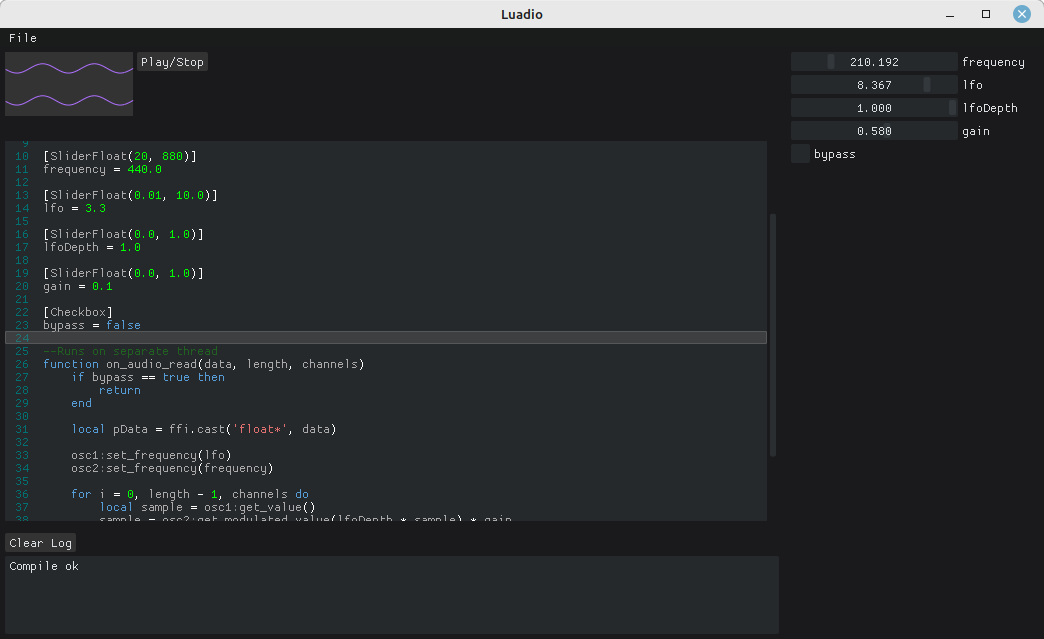
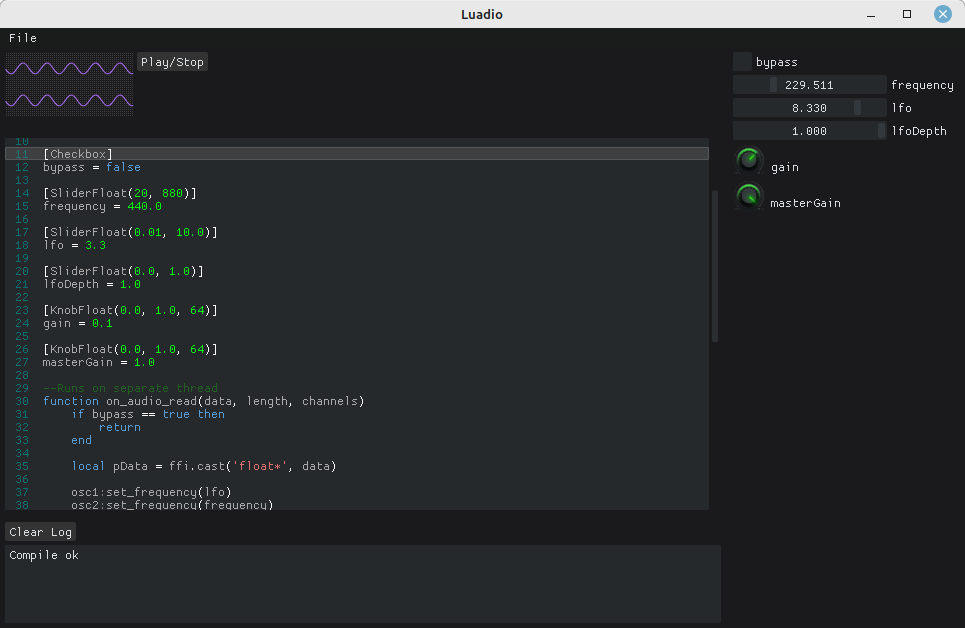
Add effect callback

diff --git a/src/core/app.cpp b/src/core/app.cpp
@@ -17,6 +17,20 @@ namespace luadio
 		pContext = ma_ex_context_init(&contextConfig);
 		pSource = ma_ex_audio_source_init(pContext);
 
+		std::memset(&soundGroup, 0, sizeof(ma_sound_group));
+		std::memset(&effectNode, 0, sizeof(ma_effect_node));
+
+		ma_sound_group_init(&pContext->engine, 0, nullptr, &soundGroup);
+		ma_ex_audio_source_set_group(pSource, &soundGroup);
+
+		ma_effect_node_config effectNodeConfig = ma_effect_node_config_init(2, 44100, on_audio_effect, this);
+
+		if (ma_effect_node_init(ma_engine_get_node_graph(&pContext->engine), &effectNodeConfig, nullptr, &effectNode) == MA_SUCCESS)
+		{
+			ma_node_attach_output_bus(&effectNode, 0, ma_engine_get_endpoint(&pContext->engine), 0);
+			ma_node_attach_output_bus(&soundGroup, 0, &effectNode, 0);
+		}
+
 		editor.SetShowHorizontalScrollbar(false);
 		auto palette = editor.GetDarkPalette();
 		palette[12] = ImColor(ImVec4(0.15f, 0.16f, 0.17f, 1.00f)); //background
@@ -36,8 +50,12 @@ namespace luadio
 			oscillatorModule.load(compiler::get_lua_state());
 			wavetableModule.load(compiler::get_lua_state());
 
-			luadio_module::onLog = [this] (const char *message) {
-				log_message(message);
+			luadio_module::onLog = [this] (const std::string &message) {
+				on_log_message(message);
+			};
+
+			luadio_module::onQueueAudio = [this] (const std::string &filePath) {
+				on_queue_audio(filePath);
 			};
 		}
 
@@ -60,10 +78,13 @@ namespace luadio
 
 		clear_fields();
 
-		ma_ex_context_uninit(pContext);
-		pContext = nullptr;
+		ma_ex_audio_source_stop(pSource);
+
 		ma_ex_audio_source_uninit(pSource);
 		pSource = nullptr;
+
+		ma_ex_context_uninit(pContext);
+		pContext = nullptr;
 	}
 	
 	void app::on_update() 
@@ -86,18 +107,19 @@ namespace luadio
 					{
 						logText += item.message + "\n";
 					}
-				}
-				else if(item.type == item_type_audio)
-				{
-					if(item.message.size() > 0)
+					else if(item.type == item_type_audio)
 					{
-						ma_ex_audio_source_play_from_file(pSource, item.message.c_str(), MA_TRUE);
-					}
-					else
-					{
-						ma_ex_audio_source_play_from_callback(pSource, on_audio_read, this);
+						if(item.message.size() > 0)
+						{
+							ma_ex_audio_source_play_from_file(pSource, item.message.c_str(), MA_TRUE);
+						}
+						else
+						{
+							ma_ex_audio_source_play_from_callback(pSource, on_audio_read, this);
+						}
 					}
 				}
+
 			}
 		}
 	}
@@ -239,14 +261,14 @@ namespace luadio
 
 				if (luaL_dostring(L, code.c_str()) == LUA_OK) 
 				{
-					log_message("Compile ok");
+					on_log_message("Compile ok");
 					on_script_start();
 					ma_ex_audio_source_play_from_callback(pSource, on_audio_read, this);
 				}
 				else
 				{
 					const char *pMessage = lua_tostring(L, -1);
-					log_message(pMessage);
+					on_log_message(pMessage);
 					lua_pop(L, 1);
 				}
 			}
@@ -540,9 +562,14 @@ namespace luadio
 		}
 	}
 
-	void app::log_message(const std::string &message)
+	void app::on_log_message(const std::string &message)
 	{
 		eventQueue.enqueue(queue_item(item_type_log, message));
+	}
+
+	void app::on_queue_audio(const std::string &filepath)
+	{
+		eventQueue.enqueue(queue_item(item_type_audio, filepath));
 	}
 
 	void app::on_audio_read(void *pUserData, void *pFramesOut, ma_uint64 frameCount, ma_uint32 channels)
@@ -551,9 +578,12 @@ namespace luadio
 
 		std::lock_guard<std::mutex> lock(pApp->luaMutex);
 
+		std::memset(pFramesOut, 0, frameCount * channels * sizeof(float));
+
 		lua_State *L = compiler::get_lua_state();
 
-		memset(pFramesOut, 0, frameCount * channels * sizeof(float));
+		if(L == nullptr)
+			return;
 
 		lua_getglobal(L, "on_audio_read");
 
@@ -565,8 +595,53 @@ namespace luadio
 
 			if(lua_pcall(L, 3, 0, 0) == 0)
 			{
-				float *pData = reinterpret_cast<float*>(pFramesOut);
-				pApp->concurrentBuffer.write(pData, frameCount * channels);
+				// float *pData = reinterpret_cast<float*>(pFramesOut);
+				// pApp->concurrentBuffer.write(pData, frameCount * channels);
+			}
+		}
+
+		int top = lua_gettop(L);
+
+		if(top > 0)
+			lua_pop(L, top);
+	}
+
+	void app::on_audio_effect(ma_node *pNode, const float **ppFramesIn, ma_uint32 *pFrameCountIn, float **ppFramesOut, ma_uint32 *pFrameCountOut)
+	{
+		ma_effect_node *pEffectNode = reinterpret_cast<ma_effect_node*>(pNode);
+		app *pApp = reinterpret_cast<app*>(pEffectNode->config.pUserData);
+		
+		std::lock_guard<std::mutex> lock(pApp->luaMutex);
+
+		const size_t sizeInBytes = *pFrameCountIn * 2 * sizeof(float);
+
+		std::memcpy(ppFramesOut[0], ppFramesIn[0], sizeInBytes);
+
+		lua_State *L = compiler::get_lua_state();
+
+		if(L == nullptr)
+			return;
+
+		lua_getglobal(L, "on_audio_effect");
+
+		if(lua_isfunction(L, -1))
+		{
+			void *framesIn = (void*)ppFramesIn[0];
+			void *frameCountIn = (void*)pFrameCountIn;
+			void *framesOut = (void*)ppFramesOut[0];
+			void *frameCountOut = (void*)pFrameCountOut;
+			int32_t channels = pEffectNode->config.channels;
+
+			lua_pushlightuserdata(L, framesIn);
+			lua_pushlightuserdata(L, frameCountIn);
+			lua_pushlightuserdata(L, framesOut);
+			lua_pushlightuserdata(L, frameCountOut);
+			lua_pushinteger(L, channels);
+
+			if(lua_pcall(L, 5, 0, 0) == 0)
+			{
+				const size_t sizeInSamples = *pFrameCountOut * 2;
+				pApp->concurrentBuffer.write(ppFramesOut[0], sizeInSamples);
 			}
 		}
 

diff --git a/src/modules/luadio_module.cpp b/src/modules/luadio_module.cpp
@@ -4,6 +4,7 @@
 namespace luadio
 {
     luadio_log_func luadio_module::onLog = nullptr;
+    luadio_queue_audio_func luadio_module::onQueueAudio = nullptr;
 
 	static std::string gSource = R"(local ffi = require ('ffi')
 local luadio = {}
@@ -18,6 +19,8 @@ function luadio.findMethod(name, signature)
 end
 
 local luadio_print = luadio.findMethod('luadio_print', 'void (__cdecl*)(const char*)')
+local luadio_play = luadio.findMethod('luadio_play', 'void (__cdecl*)(void)')
+local luadio_play_from_file = luadio.findMethod('luadio_play_from_file', 'void (__cdecl*)(const char*)')
 
 local function c_string(str)
     if type(str) == 'number' then
@@ -32,6 +35,20 @@ end
 function luadio.print(message)
     local c_message = c_string(message)
     luadio_print(c_message)
+end
+
+function luadio.play(...)
+    
+    local args = {...}
+    local numArgs = #args
+    if numArgs == 1 then
+        local filepath = args[1]
+        local c_filepath = c_string(filepath)
+        luadio_play_from_file(c_filepath)
+    else
+        print("Hello 2??")
+        luadio_play()
+    end
 end
 
 -- Override print function with our own
@@ -51,8 +68,12 @@ return luadio)";
 	void luadio_module::load(lua_State *L)
 	{
         register_method(L, "luadio_find_function_pointer", luadio_find_function_pointer);
+        
         register_external_method(L, "luadio_print", reinterpret_cast<void*>(luadio_print));
-		register_source(L, gSource, "luadio");
+        register_external_method(L, "luadio_play", reinterpret_cast<void*>(luadio_play));
+        register_external_method(L, "luadio_play_from_file", reinterpret_cast<void*>(luadio_play_from_file));
+		
+        register_source(L, gSource, "luadio");
 	}
 
     int luadio_module::luadio_find_function_pointer(lua_State *L)
@@ -88,5 +109,22 @@ return luadio)";
     {
         if(onLog)
             onLog(message);
+    }
+
+    void luadio_module::luadio_play()
+    {
+        if(onQueueAudio)
+        {
+            std::string s;
+            onQueueAudio(s);
+        }
+    }
+
+    void luadio_module::luadio_play_from_file(const char *filePath)
+    {
+        if(onQueueAudio)
+        {
+            onQueueAudio(filePath);
+        }
     }
 }

diff --git a/src/modules/script_template.cpp b/src/modules/script_template.cpp
@@ -3,6 +3,7 @@
 namespace luadio
 {
 	static std::string gCode = R"(local ffi = require('ffi')
+local luadio = require('luadio')
 local wavetable = require('wavetable')
 local oscillator = require('oscillator')
 
@@ -10,6 +11,9 @@ local table1 = wavetable.create_with_wave_type(wavetable.wavetype.sine, 1024)
 local table2 = wavetable.create_with_wave_type(wavetable.wavetype.sine, 1024)
 local osc1 = oscillator.new(oscillator.wavetype.sine, 440, 0.5, 44100)
 local osc2 = oscillator.new(oscillator.wavetype.sine, 440, 0.5, 44100)
+
+[Checkbox]
+bypass = false
 
 [SliderFloat(20, 880)]
 frequency = 440.0
@@ -20,11 +24,11 @@ lfo = 3.3
 [SliderFloat(0.0, 1.0)]
 lfoDepth = 1.0
 
-[SliderFloat(0.0, 1.0)]
+[KnobFloat(0.0, 1.0, 64)]
 gain = 0.1
 
-[Checkbox]
-bypass = false
+[KnobFloat(0.0, 1.0, 64)]
+masterGain = 1.0
 
 --Runs after compilation
 function on_start()
@@ -61,6 +65,26 @@ function on_audio_read(data, length, channels)
             pData[i + 1] = sample
         end
     end
+end
+
+--Runs on separate thread
+function on_audio_effect(framesIn, frameCountIn, framesOut, frameCountOut, channels)
+    local pFramesIn = ffi.cast('float*', framesIn)
+    local pFrameCountIn = ffi.cast('unsigned int*', frameCountIn)
+    local pFramesOut = ffi.cast('float*', framesOut)
+    local pFrameCountOut = ffi.cast('unsigned int*', frameCountOut)
+
+    local countIn = pFrameCountIn[0]
+    local countOut = pFrameCountOut[0]
+    local totalSamples = countIn * channels
+
+    for i = 0, totalSamples-1 do
+        pFramesOut[i] = pFramesIn[i] * masterGain
+    end
+
+    pFrameCountIn[0] = countIn
+    pFrameCountOut[0] = countOut
+
 end)";
 
 	std::string script_template::get_source()

diff --git a/include/core/app.hpp b/include/core/app.hpp
@@ -41,6 +41,8 @@ namespace luadio
 		std::vector<std::complex<double>> fftBuffer;
 		ma_ex_context *pContext;
 		ma_ex_audio_source *pSource;
+		ma_effect_node effectNode;
+		ma_sound_group soundGroup;
 		texture_2d knobTexture;
 		timer updateTimer;
 		plot_mode plotMode;
@@ -56,7 +58,9 @@ namespace luadio
 		void on_script_stop();
 		void on_script_update();
 		void update_fields();
-		void log_message(const std::string &message);
+		void on_log_message(const std::string &message);
+		void on_queue_audio(const std::string &filepath);
 		static void on_audio_read(void *pUserData, void *pFramesOut, ma_uint64 frameCount, ma_uint32 channels);
+		static void on_audio_effect(ma_node *pNode, const float **ppFramesIn, ma_uint32 *pFrameCountIn, float **ppFramesOut, ma_uint32 *pFrameCountOut);
 	};
 }

diff --git a/include/modules/luadio_module.hpp b/include/modules/luadio_module.hpp
@@ -3,19 +3,24 @@
 
 #include "lua_module.hpp"
 #include <functional>
+#include <string>
 
 namespace luadio
 {
-	using luadio_log_func = std::function<void(const char*)>;
+	using luadio_log_func = std::function<void(const std::string&)>;
+	using luadio_queue_audio_func = std::function<void(const std::string&)>;
 
 	class luadio_module : public lua_module
 	{
 	public:
 		static luadio_log_func onLog;
+		static luadio_queue_audio_func onQueueAudio;
 		void load(lua_State *L) override;
 	private:
 		static int luadio_find_function_pointer(lua_State *L);
 		static void luadio_print(const char *message);
+		static void luadio_play();
+		static void luadio_play_from_file(const char *filePath);
 	};
 }
 
